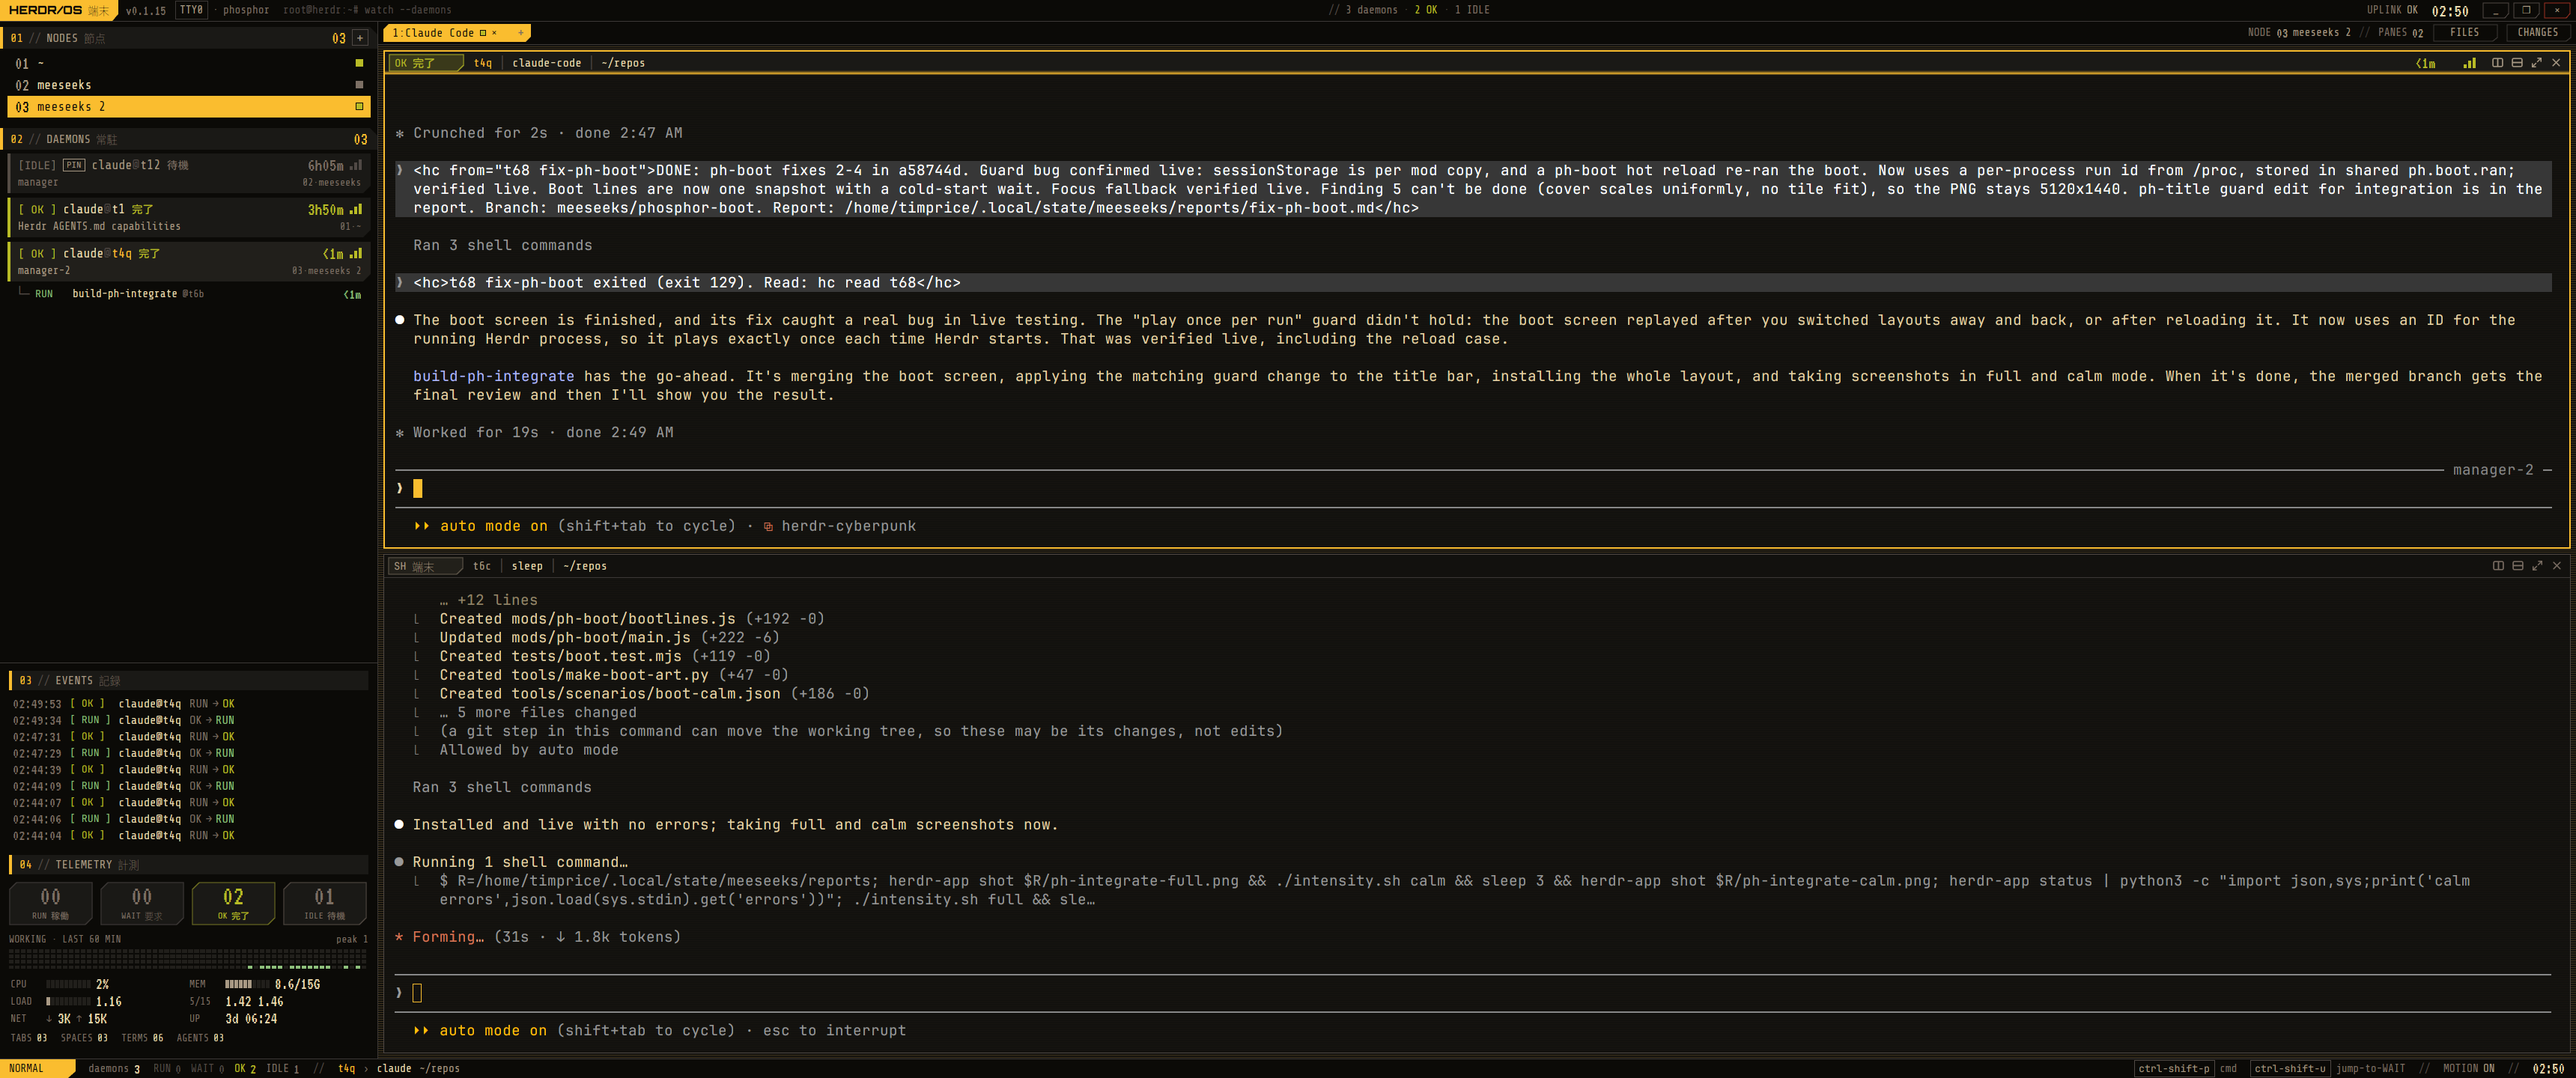
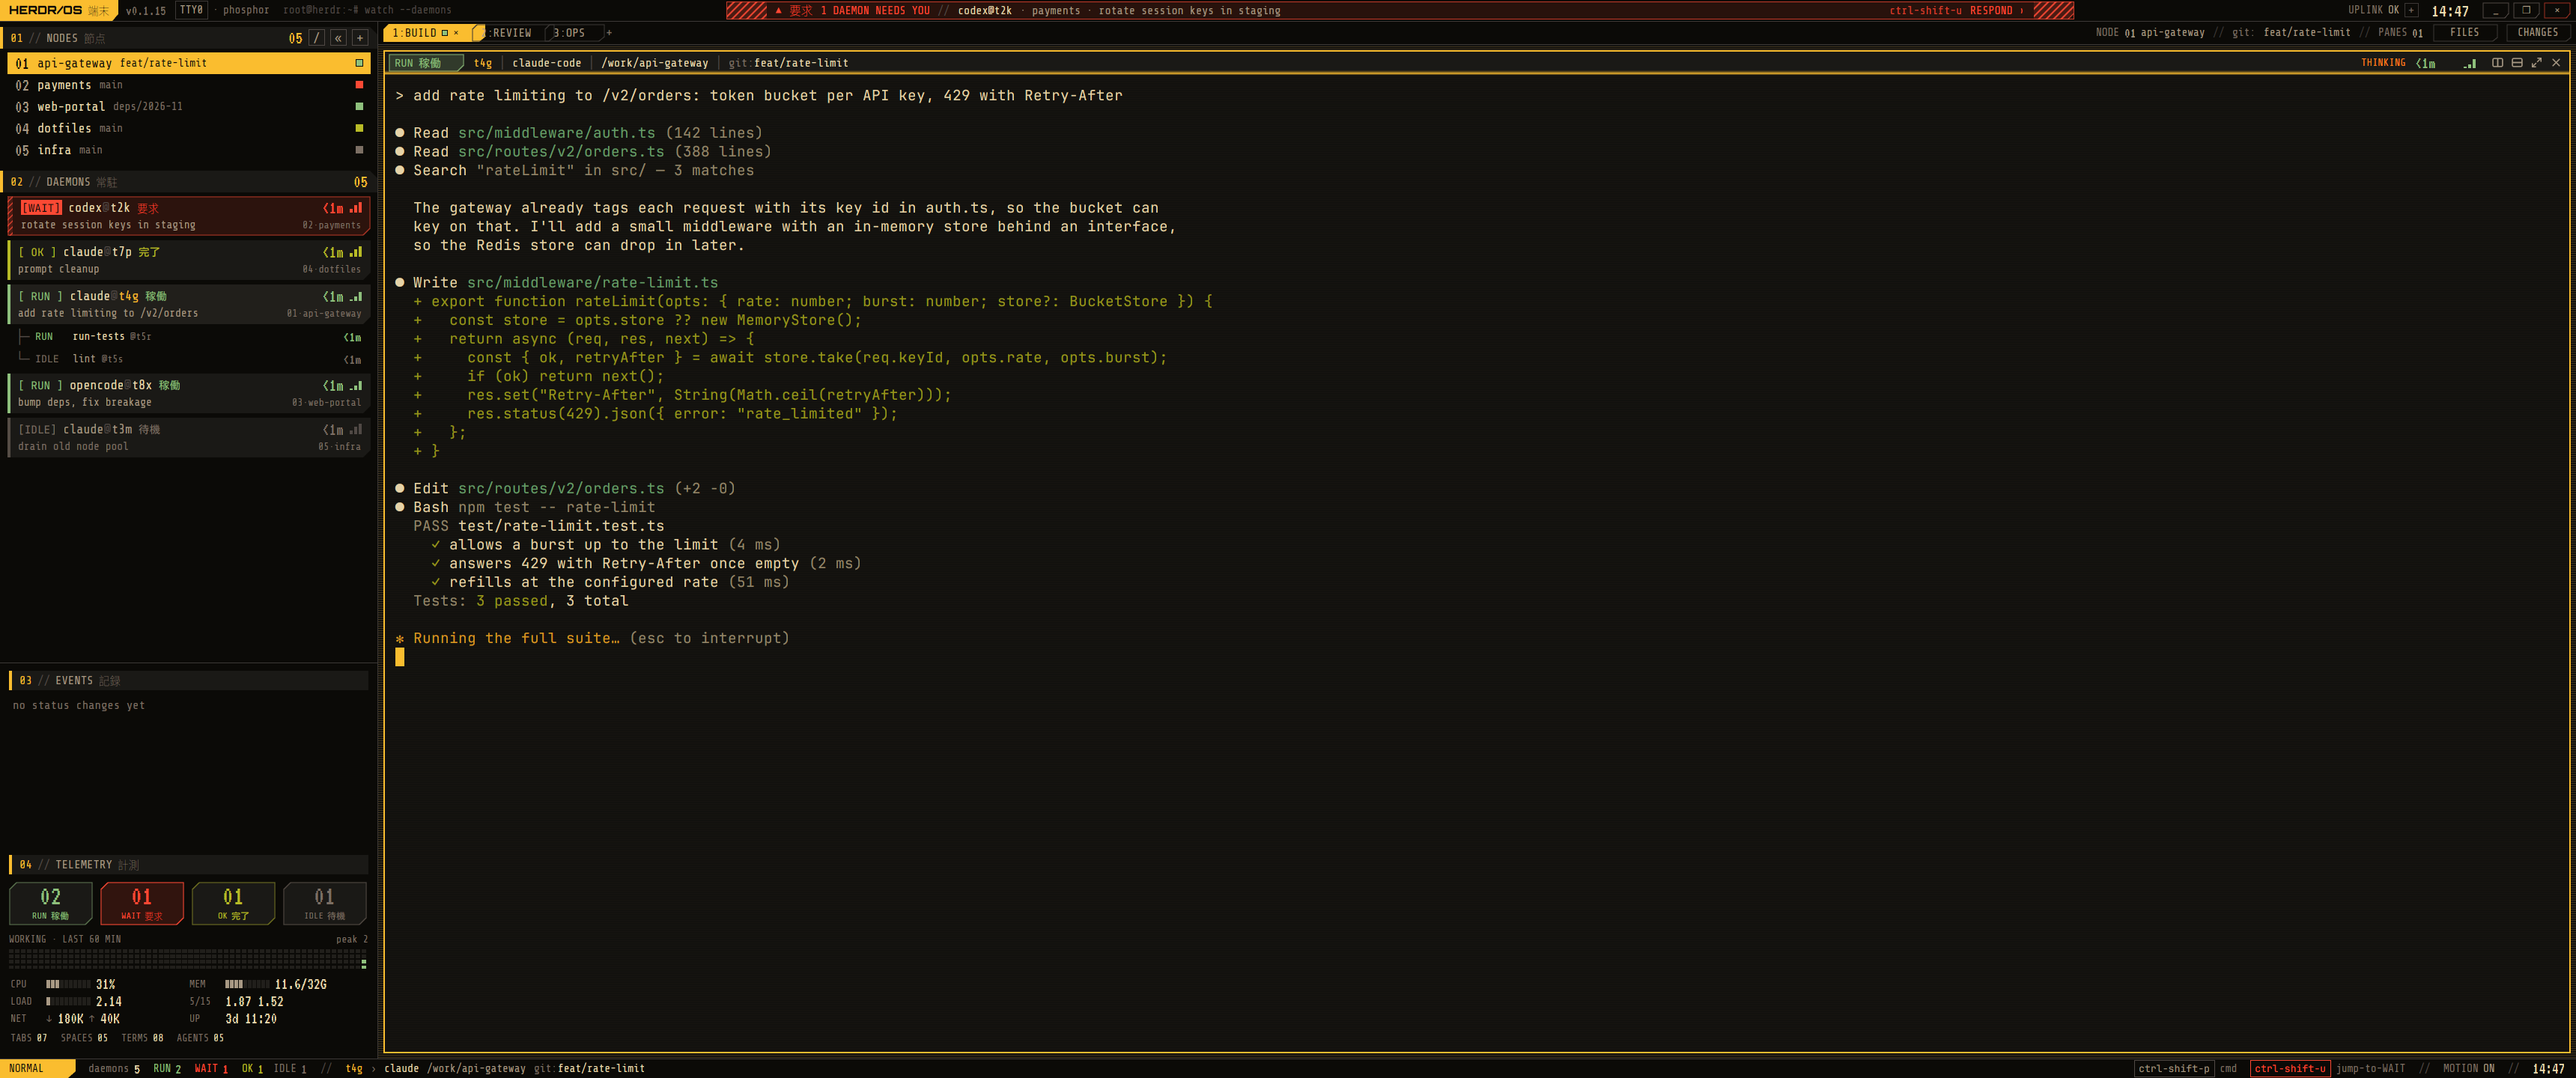
ship: preview.png from fake data only (tools/scenarios/preview.json + tools/preview-term.sh; fake /proc); fake layout uses every installed fake; fake.sh rm targets guarded
Agent: agent-fix-ph-final

diff --git a/tools/fake_rewrite.py b/tools/fake_rewrite.py
@@ -11,10 +11,10 @@ const S = __SCENARIO__;
 const AGENT = { address: "t0", pane: "p0", space: "s1", space_name: "fake", tab: "tb1", tab_index: 1, tab_name: "1",
   status: "idle", app: "claude-code", program: { key: "claude", name: "claude", icon: "icons/claude.svg", tint: false, tile: "#d97757", color: "#ffffff", shell: false, agent: true },
   title: "", seq: 0, pinned: false, focused: false };
-const PANE = { pane: "p0", terminal: "t0", tab: "tb1", title: "", cwd: "/home/op", branch: null, status: null, app: null,
+const PANE = { pane: "p0", terminal: "t0", tab: "tb1", title: "", cwd: "/work", branch: null, status: null, app: null,
   program: { key: "shell", name: "zsh", shell: true, agent: false }, focused: false, zoomed: false, movable: true };
 const TAB = { id: "tb1", index: 1, name: "1", named: false, active: false, status: null, panes: 1, zoomed: false, settled: false, settled_at: null, changed_at: null, working_since: null };
-const SPACE = { id: "s1", index: 1, name: "fake", named: true, folder: "/home/op", machine: null, branch: null, active: false, status: null, tabs: [] };
+const SPACE = { id: "s1", index: 1, name: "fake", named: true, folder: "/work", machine: null, branch: null, active: false, status: null, tabs: [] };
 const fill = (d, x, i) => ({ ...d, seq: i, ...x });
 const A = S.agents && S.agents.map((a, i) => fill(AGENT, a, i));
 const P = S.panes && S.panes.map((p, i) => fill(PANE, p, i));
@@ -28,6 +28,24 @@ export const window = () => ("window" in S ? S.window : H.window());
 export const props = () => ({ ...(H.props() ?? {}), ...(S.props ?? {}) });
 export const shared = (k) => (S.shared && k in S.shared ? S.shared[k] : H.shared(k));
 export const setAgentOrder = () => {};
+// S.proc = {cpu: 0..1, ncpu, mem: [usedGiB, totalGiB], load: [1,5,15], up: secs, net: [rxBytesPerS, txBytesPerS]}:
+// /proc texts made up from the clock, so CPU and NET read steady values (no host figures in screenshots).
+const t0 = Date.now();
+function procText(path) {
+  const q = S.proc, t = (Date.now() - t0) / 1000 + 1000, n = q.ncpu ?? 8;
+  const total = Math.round(t * 100 * n), busy = Math.round(total * (q.cpu ?? 0.2));
+  const kb = (g) => Math.round(g * 1024 * 1024);
+  const [rx, tx] = q.net ?? [0, 0];
+  switch (path) {
+    case "/proc/stat": return [`cpu  ${busy} 0 0 ${total - busy} 0 0 0 0`, ...Array.from({ length: n }, (_, i) => `cpu${i} 0 0 0 0 0 0 0 0`)].join("\n") + "\n";
+    case "/proc/meminfo": { const [u, tot] = q.mem ?? [8, 32]; return `MemTotal: ${kb(tot)} kB\nMemFree: 0 kB\nMemAvailable: ${kb(tot - u)} kB\n`; }
+    case "/proc/net/dev": return `Inter-|\n face |\n  eth0: ${Math.round(rx * t)} 0 0 0 0 0 0 0 ${Math.round(tx * t)} 0 0 0 0 0 0 0\n`;
+    case "/proc/loadavg": return `${(q.load ?? [0.5, 0.5, 0.5]).map((x) => x.toFixed(2)).join(" ")} 1/300 1\n`;
+    case "/proc/uptime": return `${(q.up ?? 3600) + t - 1000} 0\n`;
+  }
+  return null;
+}
+export const readTextFile = (p) => (S.proc && procText(p) != null ? Promise.resolve(procText(p)) : H.readTextFile(p));
 """
 
 with open(os.path.join(root, "fake-herdr.js"), "w") as f:

diff --git a/README.md b/README.md
@@ -77,6 +77,11 @@ python3 -I -c 'import json,sys; p=sys.argv[1]; d=json.load(open(p)); [d.pop(k,No
 - `tools/fake.sh <mod> tools/scenarios/demo.json [--install] [--keep]` renders a mod with fake agents and spaces
   (the temp copy is removed on exit unless `--keep`). `tools/fake.sh --clean` removes the installed fakes and their
   `data/ph-*-fake`; switch back to phosphor first if phosphor-fake is shown.
+- `preview.png` is made from fake data only: `tools/fake.sh <m> tools/scenarios/preview.json --install` for ph-title,
+  ph-tabs, ph-side, ph-telemetry, ph-pane and ph-status (the scenario also fakes the /proc figures); a throwaway space
+  `herdr-app do space.new '{"name":"demo","folder":"/tmp","argv":["sh","<repo>/tools/preview-term.sh"]}'` for the
+  terminal text; `layout.switch` to phosphor-fake, `herdr-app shot`; then switch back, close the space and
+  `tools/fake.sh --clean`.
 - `python3 -I tools/make-boot-art.py` regenerates the scanline background and the boot wordmark glow.
 - Project rules: no sound; idle is still; minute-resolution clocks only, no per-second redraws; motion only on
   RUN/WAIT, and none in calm; amber means "you are here" and nothing else.
